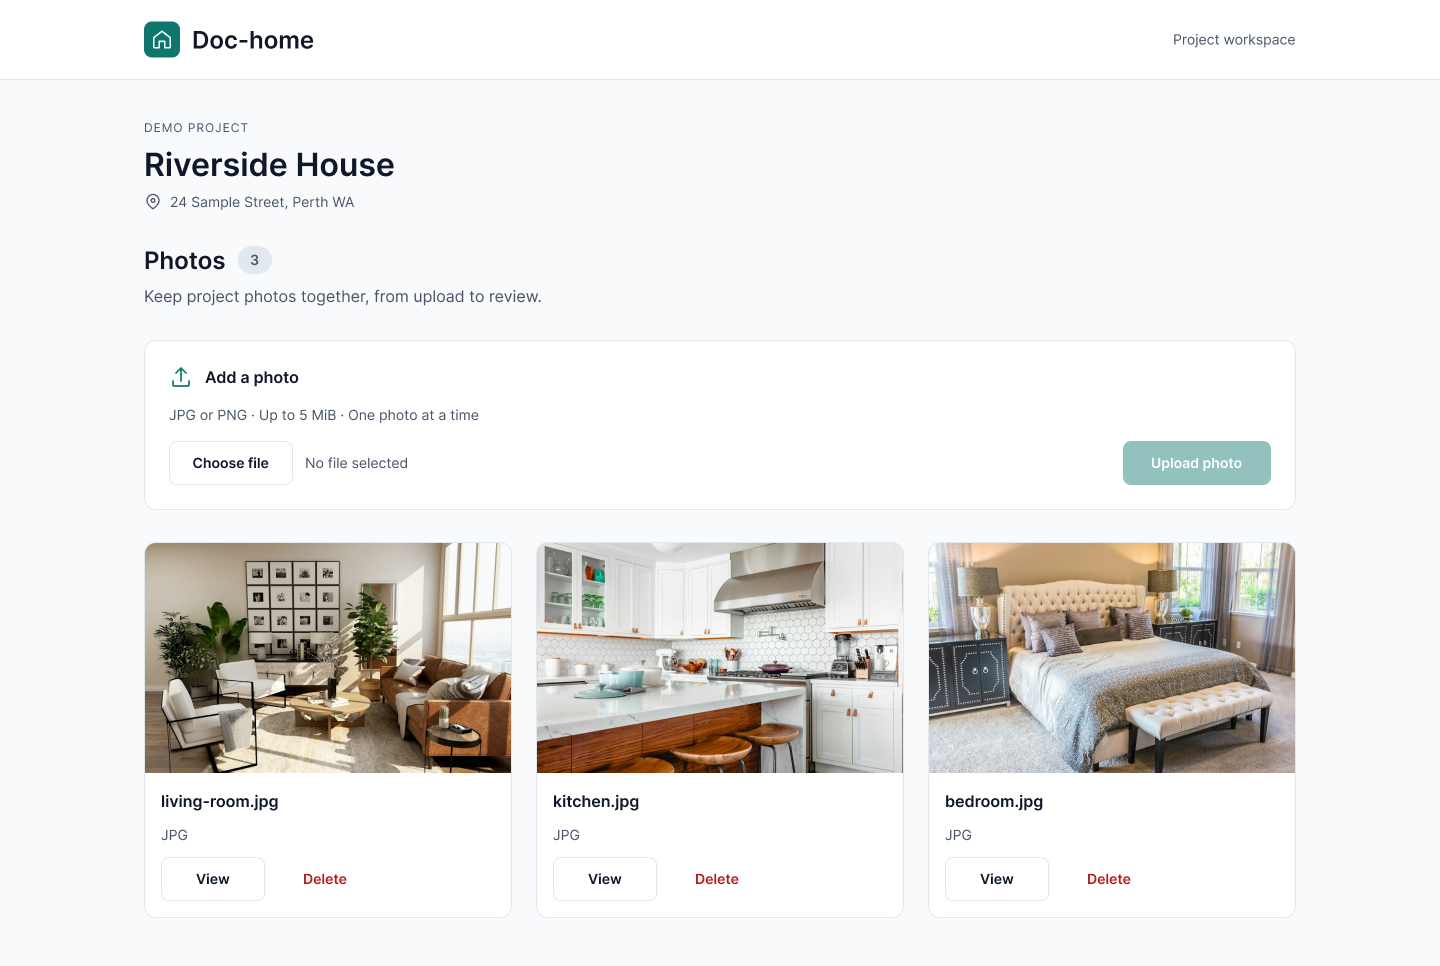
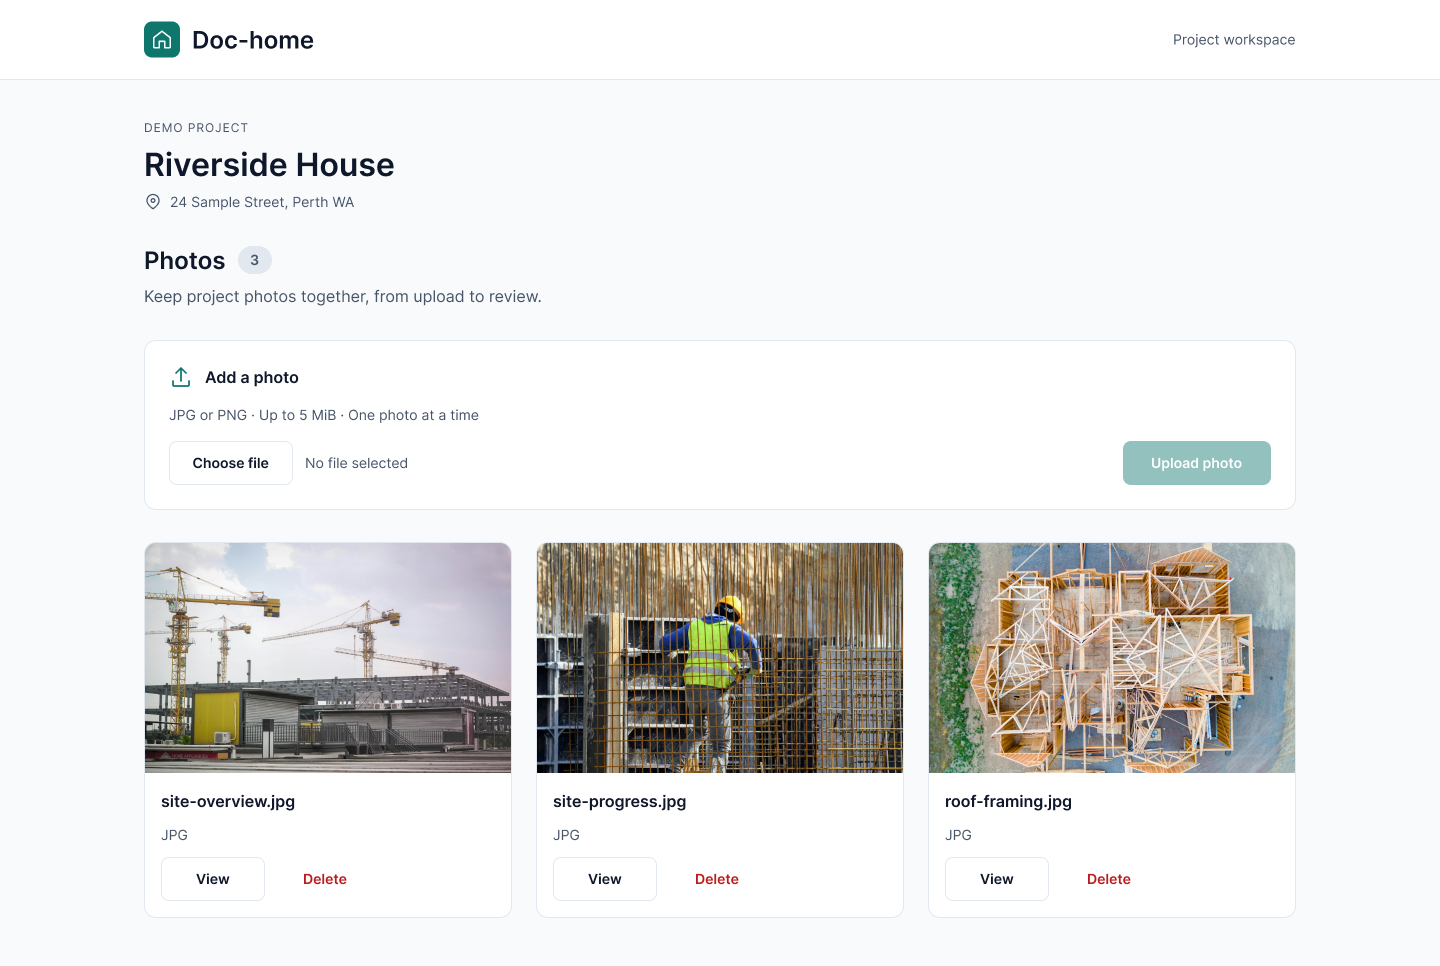
docs: add responsive implementation screenshots and project samples

Changed region(s): [[0.0938, 0.559, 0.9062, 0.8385]]

diff --git a/docs/PROJECT_ASSETS_SCOPE_DELIVERY_PLAN.md b/docs/PROJECT_ASSETS_SCOPE_DELIVERY_PLAN.md
@@ -82,7 +82,17 @@ One page has empty/populated design states at desktop, tablet and mobile widths.
 | `tablet`: 48rem | Two columns; 32px side padding |
 | `desktop`: 64rem | Three columns; up to 1152px usable content |
 
-Previews: [desktop empty](images/photo-management-empty.png), [desktop populated](images/photo-management-desktop.png), [mobile populated](images/photo-management-mobile.png). These show illustrative content, not seeded photos or customer data. Example photo sources: [living room](https://images.unsplash.com/photo-1600210492486-724fe5c67fb0), [kitchen](https://images.unsplash.com/photo-1556912172-45b7abe8b7e1), [bedroom](https://images.unsplash.com/photo-1505693416388-ac5ce068fe85).
+### Screenshots
+
+Figma references and running-app screenshots are separate evidence. The app captures show local sample uploads, not photos created by the seed. List order is newest first, so it differs from the illustrative Figma order.
+
+| View | Figma design | Running app |
+| --- | --- | --- |
+| Desktop (1440px) | [Design](images/photo-management-desktop.png) | [Implementation](images/app-desktop.png) |
+| Tablet (834px) | [Design](images/photo-management-tablet.png) | [Implementation](images/app-tablet.png) |
+| Mobile (390px) | [Design](images/photo-management-mobile.png) | [Implementation](images/app-mobile.png) |
+
+[Empty-state design](images/photo-management-empty.png). Sample construction photos are illustrative project records, not customer evidence: [site overview — Dhaniel Hartono](https://unsplash.com/photos/PCDK46BCeh4), [site progress — shraga kopstein](https://unsplash.com/photos/7ypbeAK9t4E), [roof framing — Avel Chuklanov](https://unsplash.com/photos/IB0VA6VdqBw), via Unsplash. These are JPG examples; PDF/DOC support remains outside this slice.
 
 ## Verification boundaries
 

diff --git a/README.md b/README.md
@@ -52,6 +52,7 @@ Web and API are separate applications in one pnpm workspace. PostgreSQL stores m
 - [Delivery scope and trade-offs](docs/PROJECT_ASSETS_SCOPE_DELIVERY_PLAN.md)
 - [Future product direction](docs/PRODUCT_BLUEPRINT.md)
 - [Figma and design previews](docs/PROJECT_ASSETS_SCOPE_DELIVERY_PLAN.md#design-reference)
+- [Design and implementation screenshots: desktop, tablet and mobile](docs/PROJECT_ASSETS_SCOPE_DELIVERY_PLAN.md#screenshots)
 
 ## HTTP API
 
